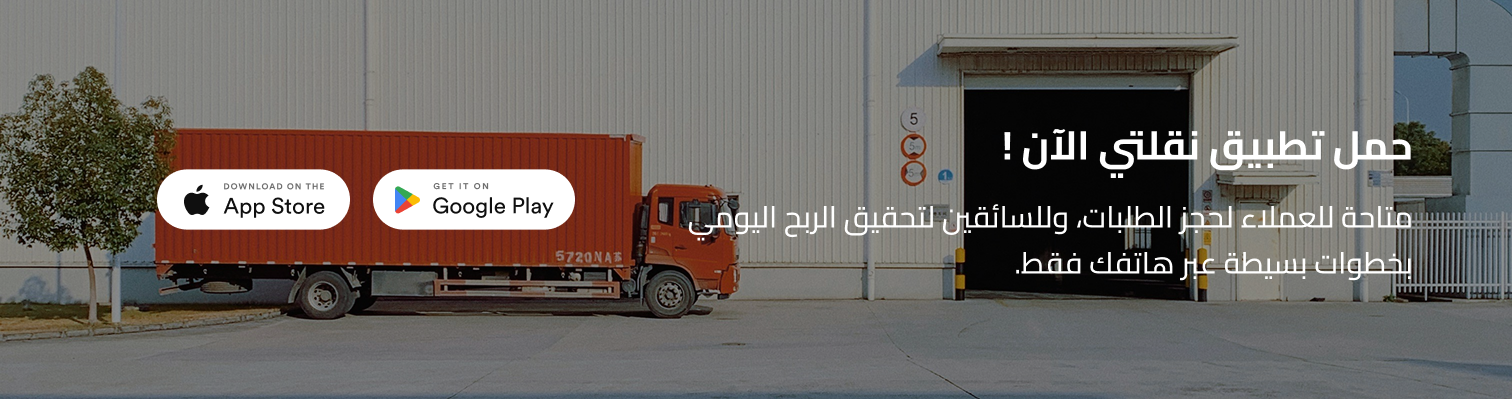
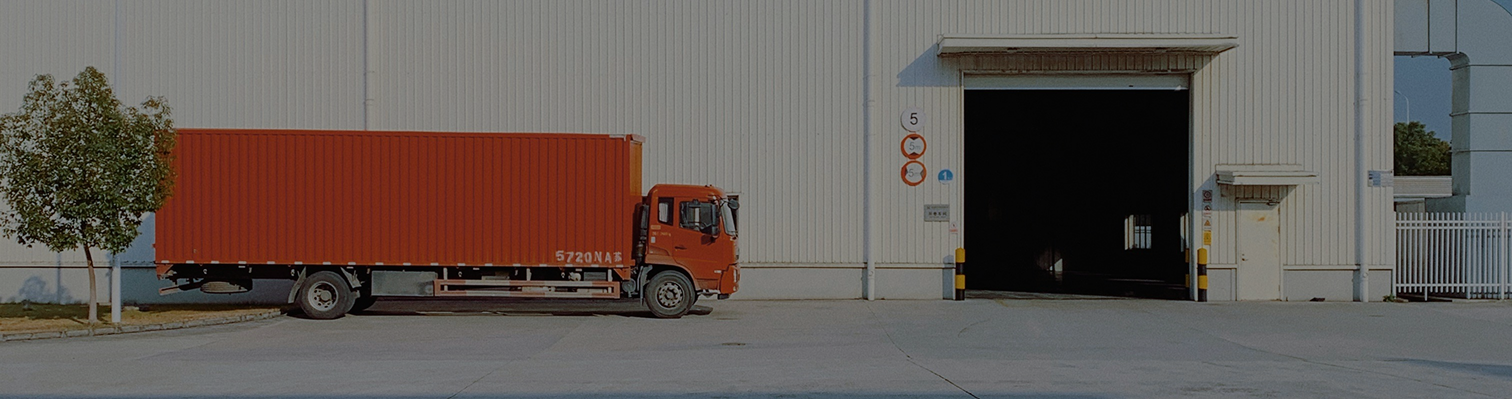
update

diff --git a/hover.html b/hover.html
@@ -1,0 +1,130 @@
+<!DOCTYPE html>
+<html lang="ar" dir="rtl">
+  <head>
+    <meta charset="UTF-8" />
+    <meta name="viewport" content="width=device-width, initial-scale=1.0" />
+    <title>تأثير Hover على الكروت</title>
+    <style>
+      body {
+        margin: 0;
+        font-family: "Arial", sans-serif;
+        background-color: #111;
+        color: #fff;
+      }
+
+      .card-grid {
+        display: grid;
+        grid-template-columns: repeat(auto-fit, minmax(280px, 1fr));
+        gap: 20px;
+        padding: 2rem;
+        max-width: 1200px;
+        margin: auto;
+      }
+
+      .card {
+        position: relative;
+        border-radius: 1.5rem;
+        overflow: hidden;
+        background: #000;
+        color: white;
+        text-decoration: none;
+        transition: border 0.3s ease;
+        border: 1px solid transparent;
+      }
+
+      .card:hover {
+        border: 1px solid #444;
+      }
+
+      .card-bg {
+        position: absolute;
+        inset: 0;
+        background-color: rgba(229, 229, 229, 0.1);
+        opacity: 0;
+        transition: opacity 0.3s ease;
+        z-index: 1;
+      }
+
+      .card:hover .card-bg {
+        opacity: 1;
+      }
+
+      .card-content {
+        position: relative;
+        z-index: 2;
+        padding: 2rem;
+      }
+
+      .card-content h4 {
+        font-size: 1.25rem;
+        font-weight: bold;
+        margin-bottom: 1rem;
+        color: #fff;
+      }
+
+      .card-content p {
+        color: #aaa;
+        font-size: 0.9rem;
+        line-height: 1.6;
+      }
+    </style>
+  </head>
+  <body>
+    <div class="card-grid">
+      <a href="https://stripe.com" class="card">
+        <div class="card-bg"></div>
+        <div class="card-content">
+          <h4>Stripe</h4>
+          <p>شركة تبني بنية تحتية اقتصادية للإنترنت.</p>
+        </div>
+      </a>
+
+      <a href="https://netflix.com" class="card">
+        <div class="card-bg"></div>
+        <div class="card-content">
+          <h4>Netflix</h4>
+          <p>خدمة بث تقدم مجموعة واسعة من البرامج والمسلسلات.</p>
+        </div>
+      </a>
+
+      <a href="https://google.com" class="card">
+        <div class="card-bg"></div>
+        <div class="card-content">
+          <h4>Google</h4>
+          <p>
+            شركة تكنولوجيا متعددة الجنسيات تقدم خدمات ومنتجات مرتبطة بالإنترنت.
+          </p>
+        </div>
+      </a>
+
+      <a href="https://meta.com" class="card">
+        <div class="card-bg"></div>
+        <div class="card-content">
+          <h4>Meta</h4>
+          <p>
+            شركة تكنولوجيا تركز على بناء منتجات تعزز مهمة فيسبوك في تقريب الناس.
+          </p>
+        </div>
+      </a>
+
+      <a href="https://amazon.com" class="card">
+        <div class="card-bg"></div>
+        <div class="card-content">
+          <h4>Amazon</h4>
+          <p>
+            شركة تكنولوجية متعددة الجنسيات تركز على التجارة الإلكترونية والحوسبة
+            السحابية.
+          </p>
+        </div>
+      </a>
+
+      <a href="https://microsoft.com" class="card">
+        <div class="card-bg"></div>
+        <div class="card-content">
+          <h4>Microsoft</h4>
+          <p>شركة تقوم بتطوير وبيع البرمجيات والإلكترونيات وخدمات الكمبيوتر.</p>
+        </div>
+      </a>
+    </div>
+  </body>
+</html>

diff --git a/naqlti.html b/naqlti.html
@@ -114,24 +114,31 @@
                     <p>في [اسم موقعك لبيع الأواني الخزفية]، نفخر بتقديم أكثر من مجرد منتجات؛ نحن نقدم تجربة. إليك ما يميزنا.</p>
                     <div class="why_us_list">
                         <div class="why_us_item">
-                            <h2>01</h2>
+                            <h2><span class="span1"></span> 01</h2>
                             <h3>نقل ذكي</h3>
                             <p>نقدّم تجربة نقل سلسة تعتمد على التكنولوجيا لتسهيل الحجز والتتبع وتنفيذ الطلبات بدقة.</p>
                         </div>
                         <div class="why_us_item">
-                            <h2>02</h2>
+                            <h2><span class="span2"></span> 02</h2>
                             <h3>تمكين السائقين</h3>
                             <p>نوفر فرصًا حقيقية للكسب اليومي من خلال نظام عادل ومرن يراعي وقت السائق وموقعه.</p>
                         </div>
                         <div class="why_us_item">
-                            <h2>03</h2>
+                            <h2><span class="span3"></span> 03</h2>
                             <h3>راحة العملاء</h3>
                             <p>نضمن خدمة موثوقة وسريعة تلبي احتياجات النقل في أي وقت، مع متابعة لحظية ودعم مستمر.</p>
                         </div>
                     </div>
                 </div>
                 <div class="download_app">
-                    <img src="./images/Frame 1171275073.png" alt="">
+                    <div class="download_content">
+                      <h1>حمل تطبيق نقلتي الآن !</h1>
+                      <p>متاحة للعملاء لحجز الطلبات، وللسائقين لتحقيق الربح اليومي بخطوات بسيطة عبر هاتفك فقط.</p>
+                    </div>
+                    <div class="download_images">
+                      <img src="./images/google.png" alt="">
+                      <img src="./images/apple.png" alt="">
+                    </div>
                 </div>
             </div>
         </div>

diff --git a/css/naqlti.css b/css/naqlti.css
@@ -118,31 +118,89 @@
   gap: 1rem;
   box-shadow: 1px 1px 10px rgba(0, 0, 0, 0.2);
 }
-.why_us_item > h2 {
-  background-color: rgba(77, 70, 199, 1);
+.why_us_item h2 {
+  display: flex;
+  justify-content: center;
+  align-items: center;
+  font-size: 20px;
+  position: relative;
+  padding-right: 1.2rem;
+}
+.why_us_item h2 .span1,
+.why_us_item h2 .span2,
+.why_us_item h2 .span3 {
+  background-color: rgba(199, 70, 77, 0.1);
   border-radius: 50%;
   width: 30px;
   height: 30px;
   display: flex;
   justify-content: center;
   align-items: center;
-  padding: 1rem;
-  font-size: 16px;
+  position: absolute;
+  right: 0;
 }
+.why_us_item h2 .span2 {
+  background-color: rgba(87, 230, 34, 0.1);
+}
+.why_us_item h2 .span3 {
+  background-color: rgba(179, 250, 63, 0.3);
+}
+/* .why_us_item > h2:nth-of-type(2) {
+  background-color: rgba(87, 230, 34, 0.1);
+} */
 .why_us_item > p {
   color: #444;
   font-size: 0.9rem;
 }
-.download_app img {
+.download_app {
   width: 100%;
+  background-image: url("../images/Frame\ 1171275073.png");
+  background-position: center;
+  background-size: cover;
+  background-repeat: no-repeat;
+  object-fit: cover;
+  display: flex;
+  justify-content: space-around;
+  align-items: center;
+  gap: 1rem;
+  height: 400px;
+}
+.download_content {
+  width: 100%;
+  max-width: 500px;
+  display: flex;
+  justify-content: center;
+  align-items: flex-start;
+  flex-direction: column;
+  gap: 1rem;
+  color: #fff;
+}
+.download_images {
+  width: 100%;
+  display: flex;
+  justify-content: center;
+  align-items: center;
+  gap: 1rem;
+  max-width: 500px;
 }
 @media screen and (max-width: 789px) {
   .naqlti_content_data {
     flex-direction: column;
   }
-  .download_app img {
-    width: 100%;
-    object-fit: cover;
+  .download_app {
+    flex-direction: column;
+    align-items: center;
+    justify-content: center;
+    padding: 0 1rem;
+  }
+  .download_content h1 {
+    font-size: 1.5rem;
+  }
+  .download_images {
+    gap: 10px;
+  }
+  .download_images img {
+    width: 120px;
   }
   .why_us > p {
     width: 100%;

diff --git a/css/client.css b/css/client.css
@@ -36,7 +36,13 @@
   border-radius: 10px;
   box-shadow: rgba(0, 0, 0, 0.1) 0px 4px 12px;
   background-color: #fff;
-  margin: 0 auto; /* يخلي العناصر في المنتصف داخل كل عمود */
+  margin: 0 auto;
+  transition: all 0.3s ease;
+}
+.clien_item:hover {
+  transform: translateY(-8px);
+  box-shadow: 0 10px 20px rgba(0, 0, 0, 0.15);
+  transition: all 0.3s ease;
 }
 
 .clien_item img {

diff --git a/css/main.css b/css/main.css
@@ -12,7 +12,7 @@
   scroll-behavior: smooth;
 }
 :root {
-  --prim-color: #ff7700;
+  --prim-color: #E65722 ;
   --sec-color: #fff;
   --third-color: #000;
 }
@@ -535,7 +535,7 @@
   flex-direction: column;
 }
 .stars i {
-  color: #ff7700;
+  color: #E65722 ;
   font-size: 1.2rem;
 }
 .footer {
